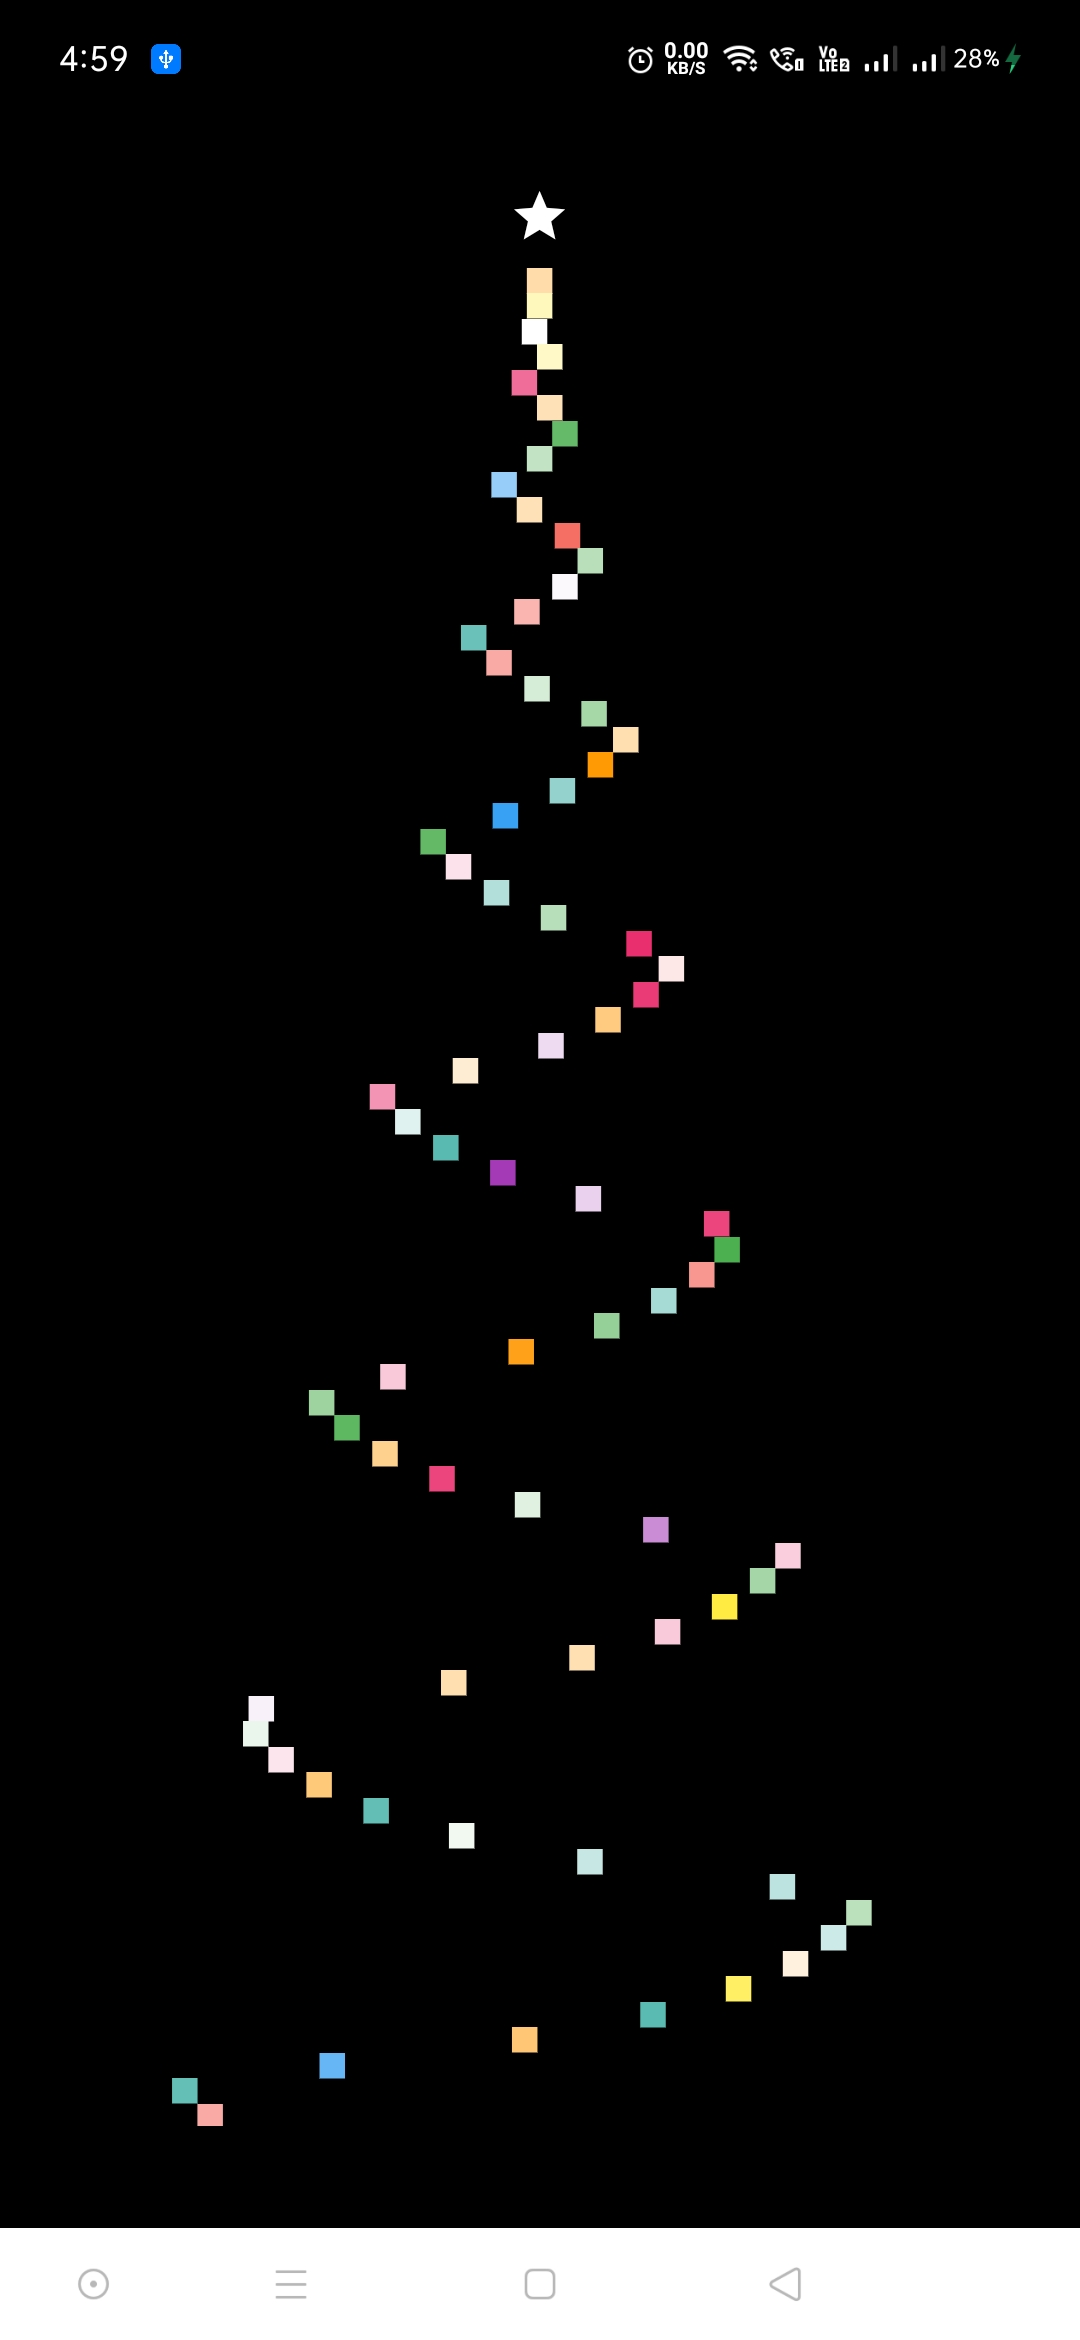
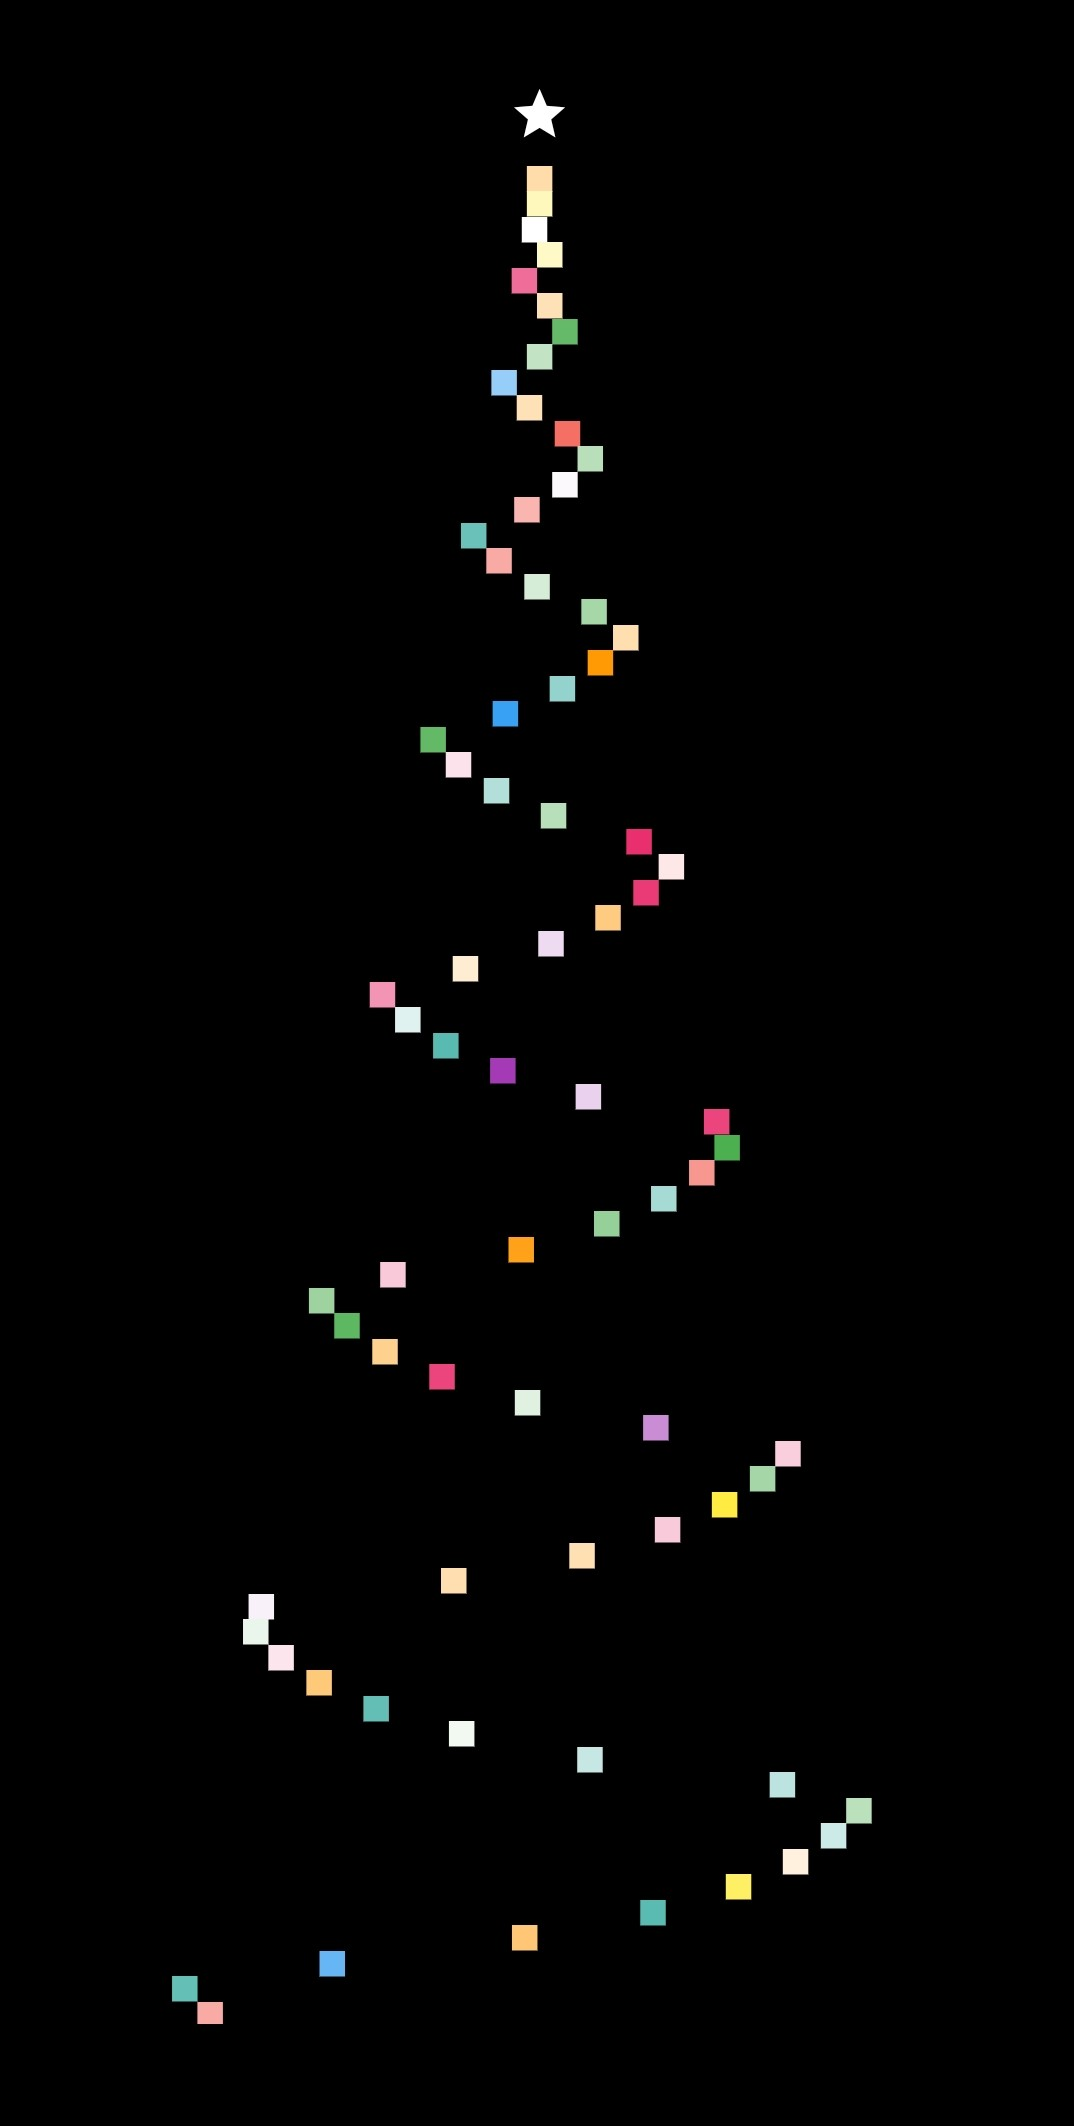
Readme.md

diff --git a/README.md b/README.md
@@ -5,5 +5,4 @@
 ![](https://github.com/chirag-goel360/Christmas_Tree/blob/main/website.png)
 
 ### Android
-<img src="https://github.com/chirag-goel360/Christmas_Tree/blob/main/android.jpg" width="800" height="1000">
-
+![](https://github.com/chirag-goel360/Christmas_Tree/blob/main/android.jpg)
